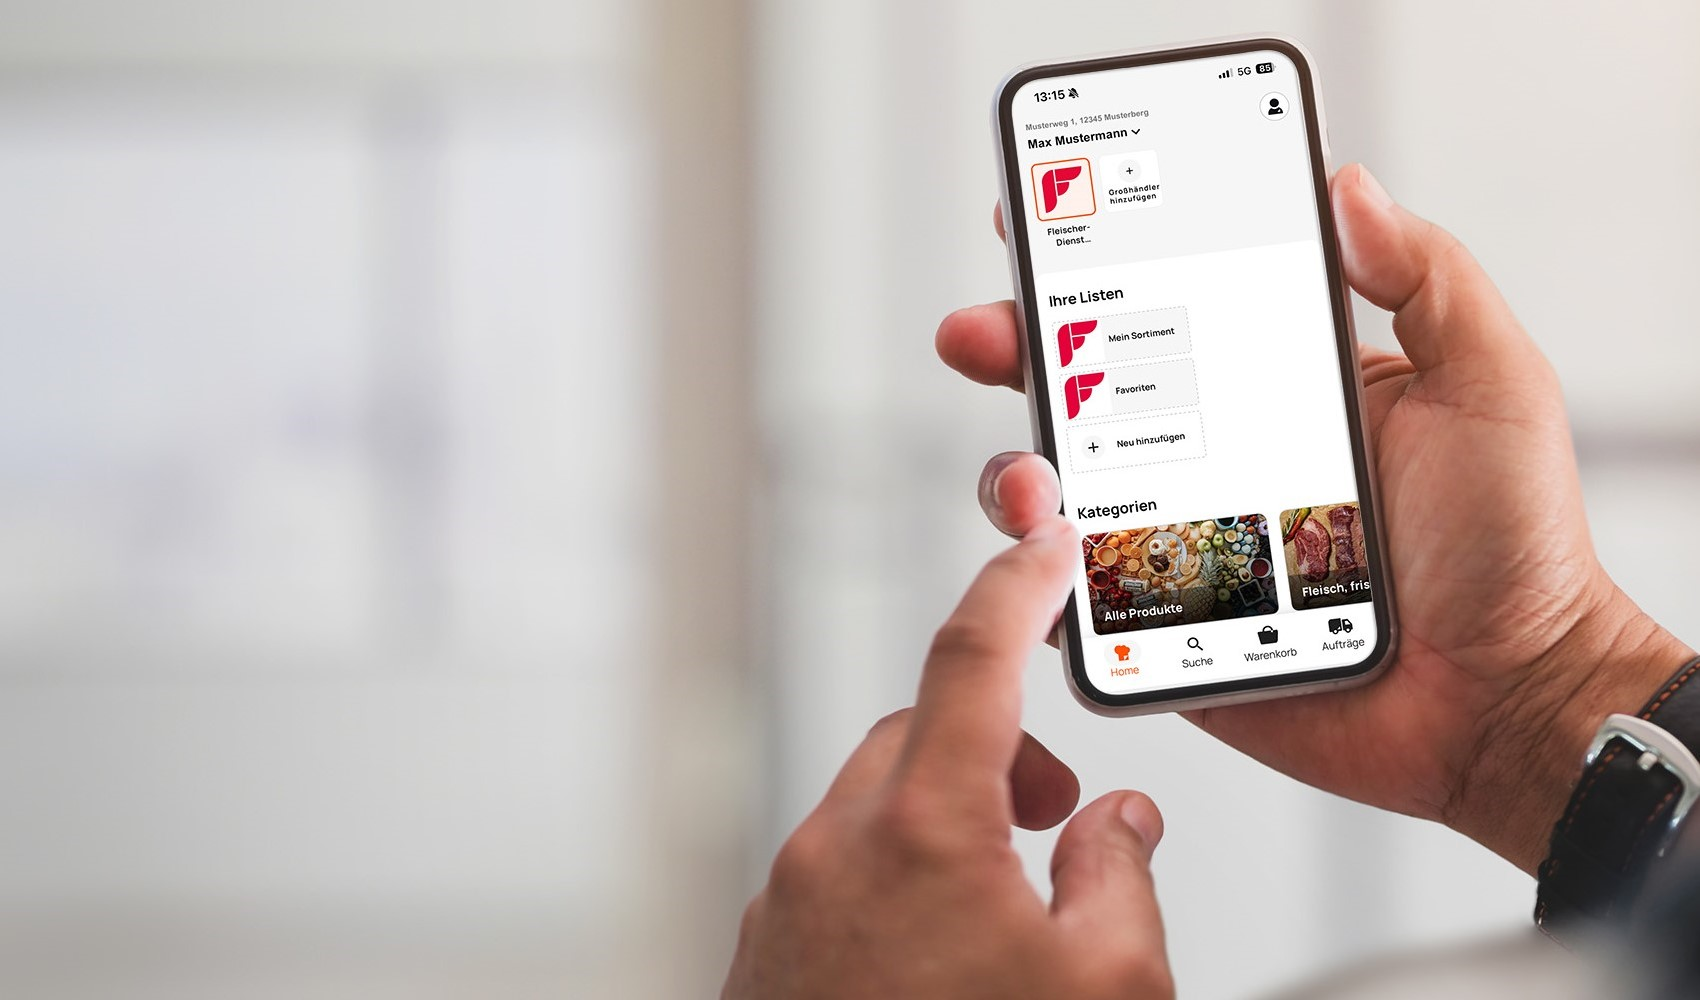
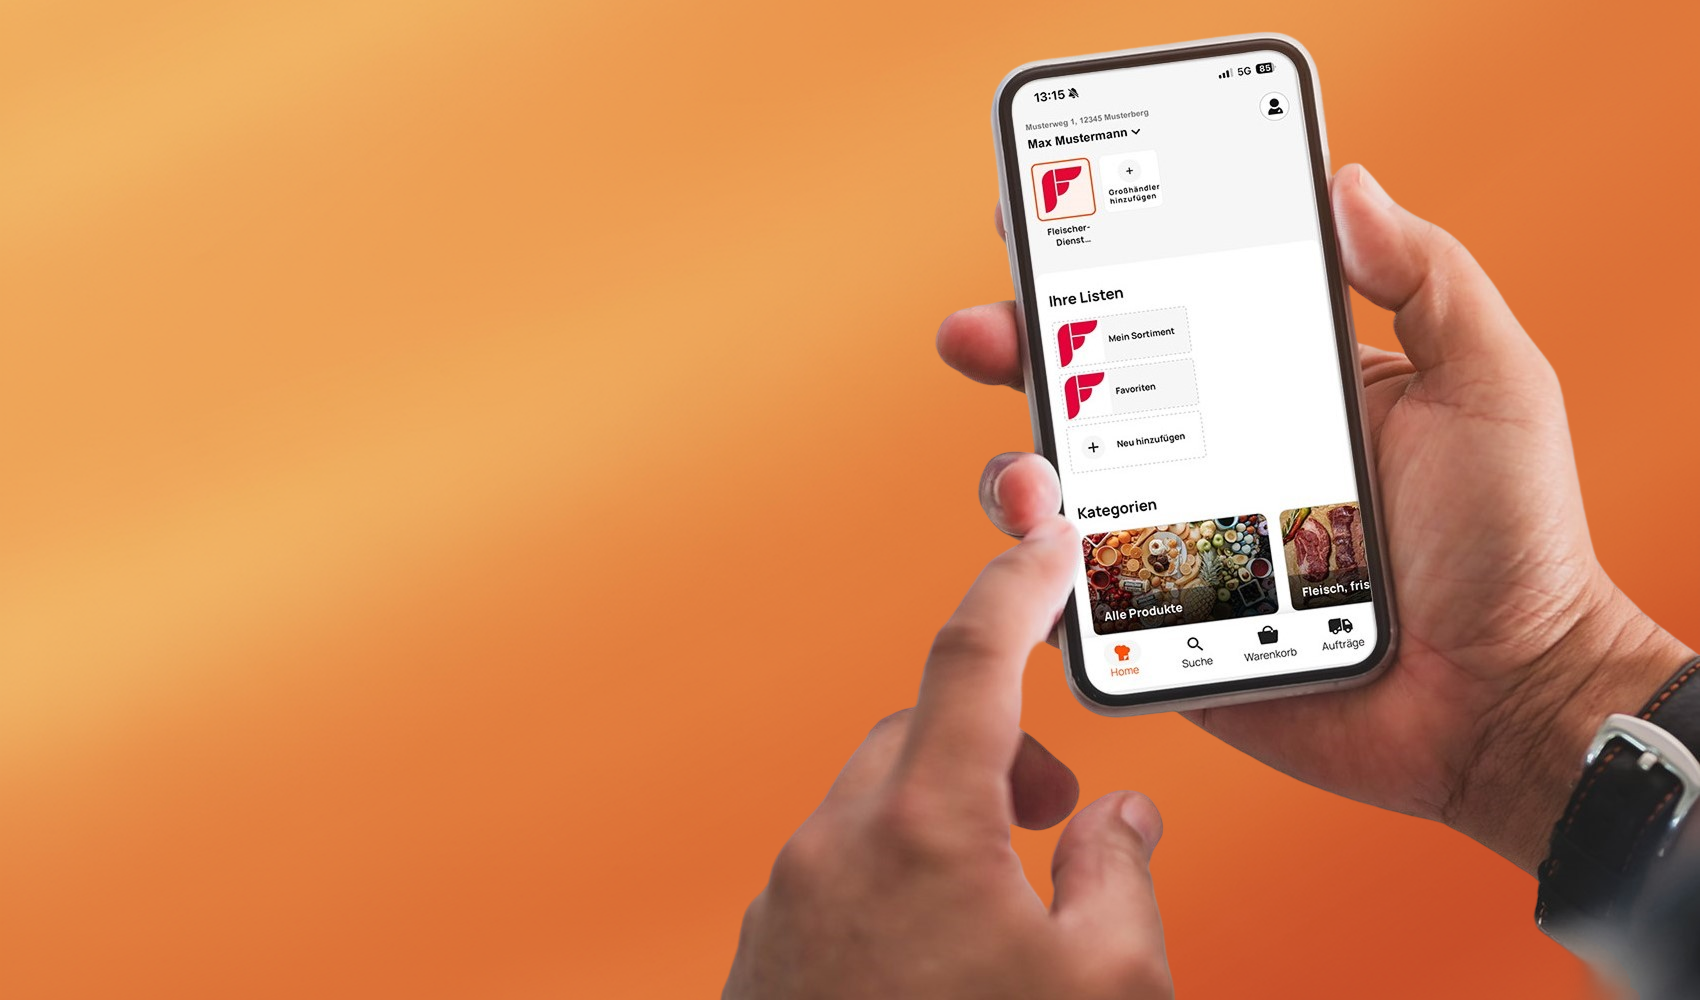
Edit pictures

diff --git a/app/pages/foodservice/online-shop.vue b/app/pages/foodservice/online-shop.vue
@@ -56,7 +56,7 @@
     <SectionText class="overview">
         <div class="grid">
             <div class="flex-1">
-                <img src="/images/content/online-shop/online-shop-2.png" alt="Online-Shop" class="rounded-lg mt-12">
+                <img src="/images/content/online-shop/online-shop-3.png" alt="Online-Shop" class="rounded-lg mt-12">
             </div>
             <p class="flex-1">
                 Die Implementierung des Online-Shops ist ein wichtiger Schritt in die digitale Zukunft unseres
